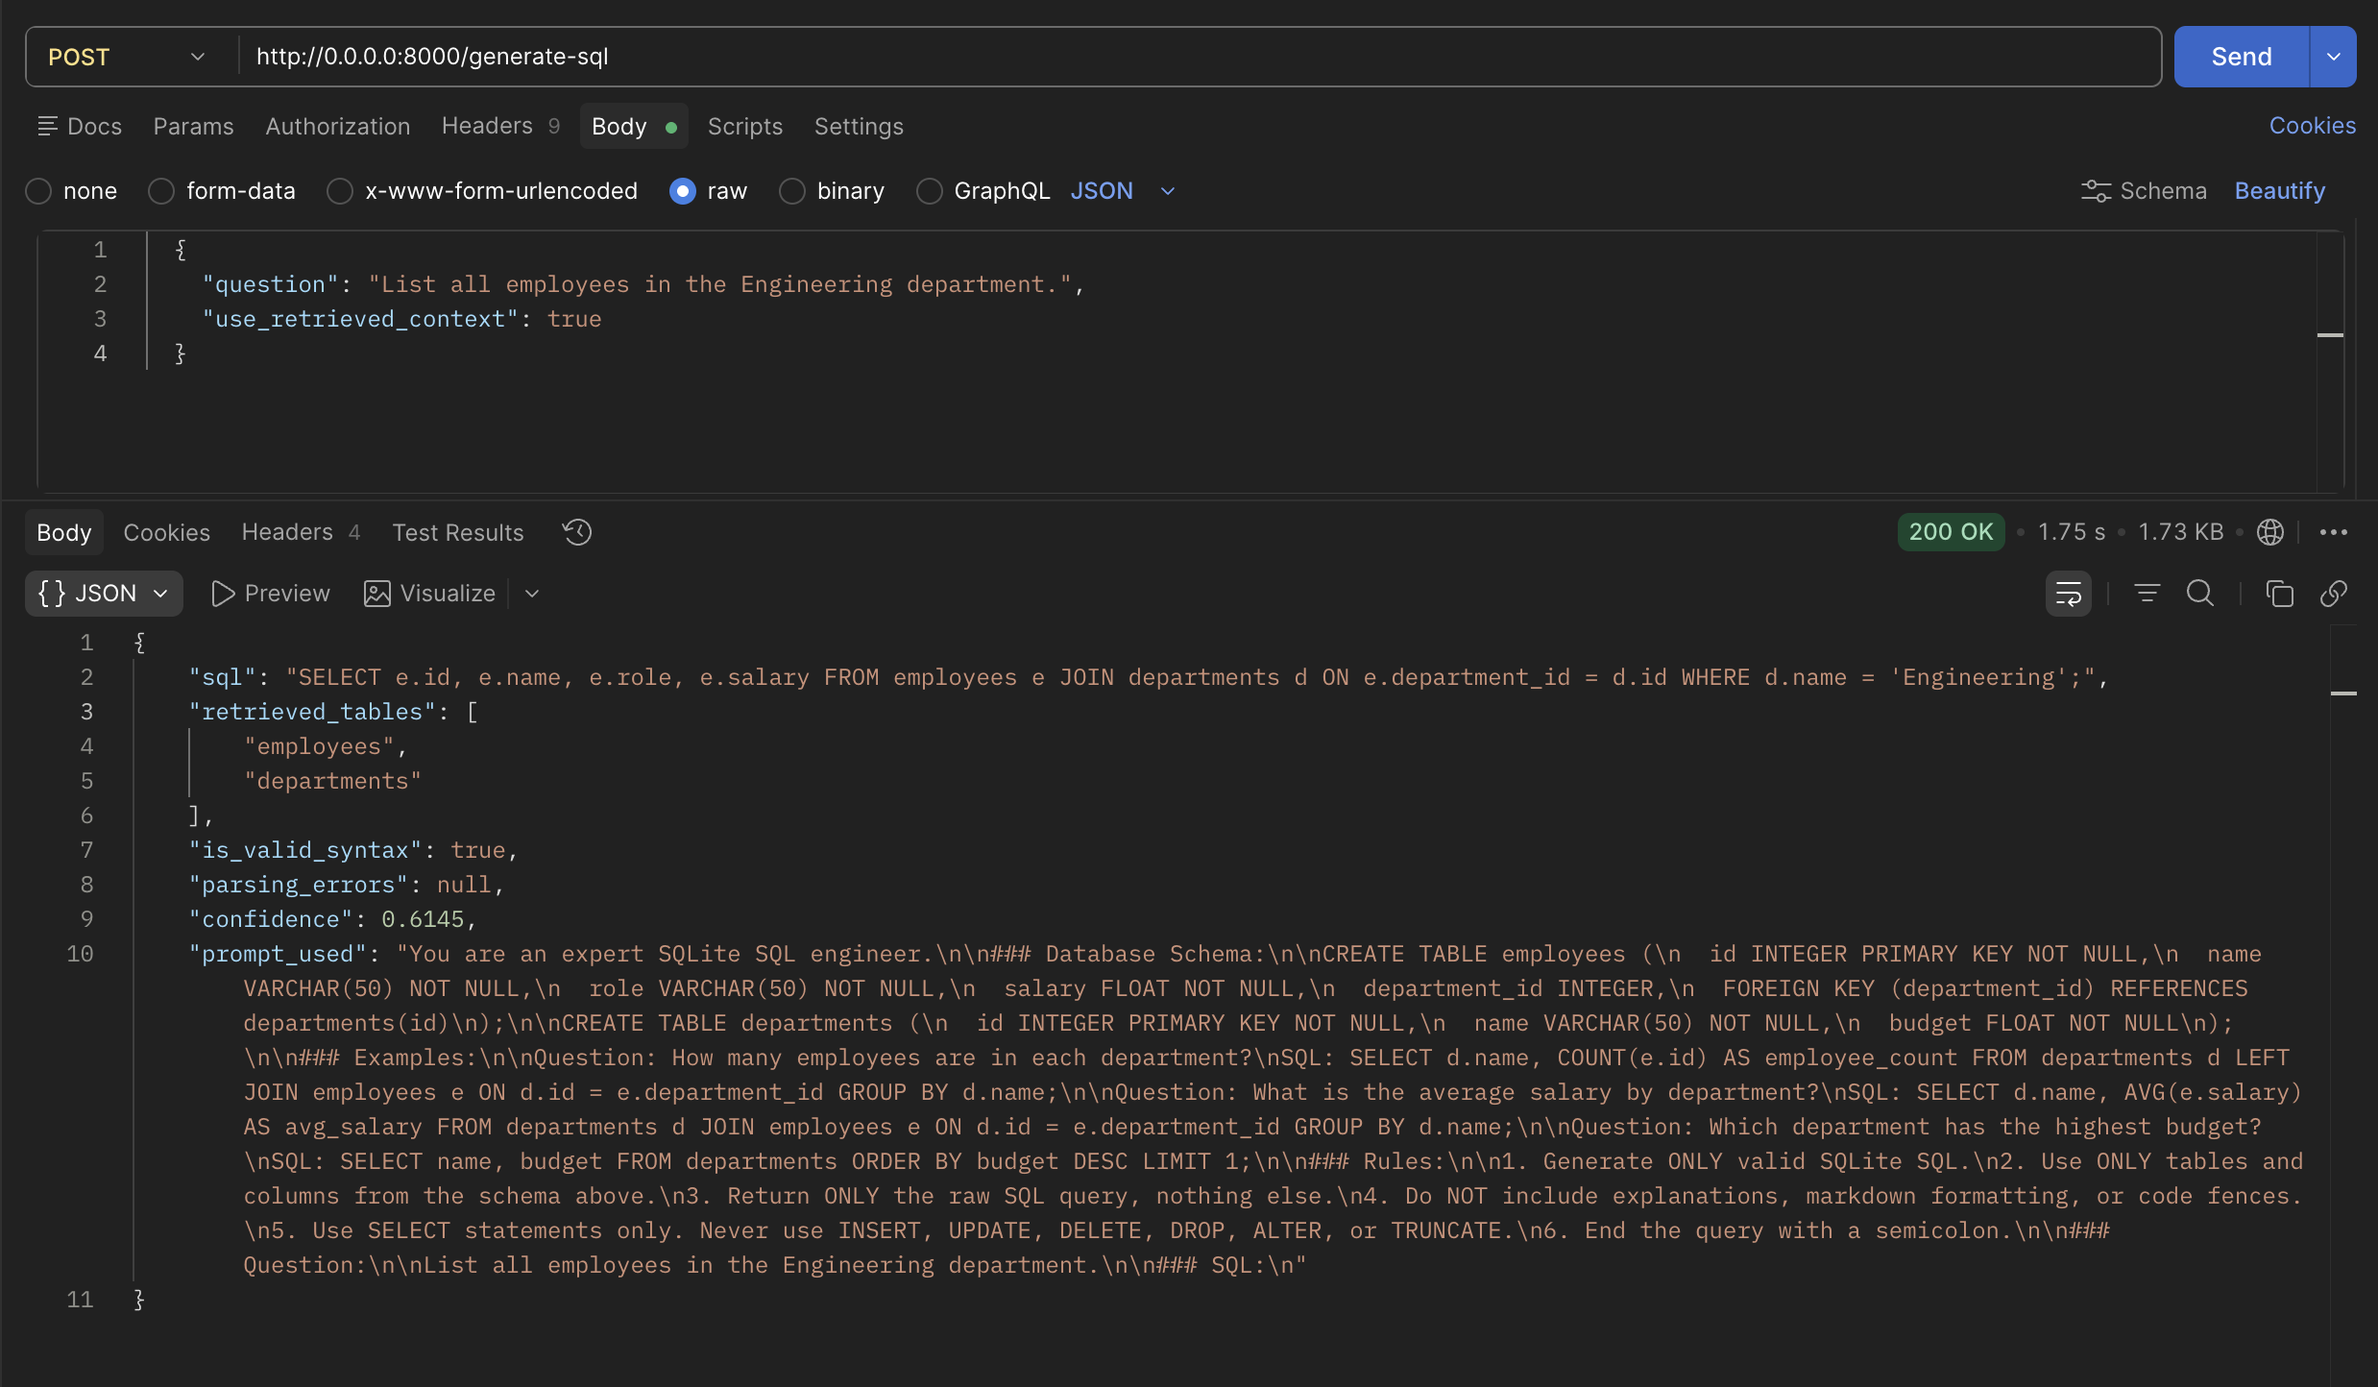
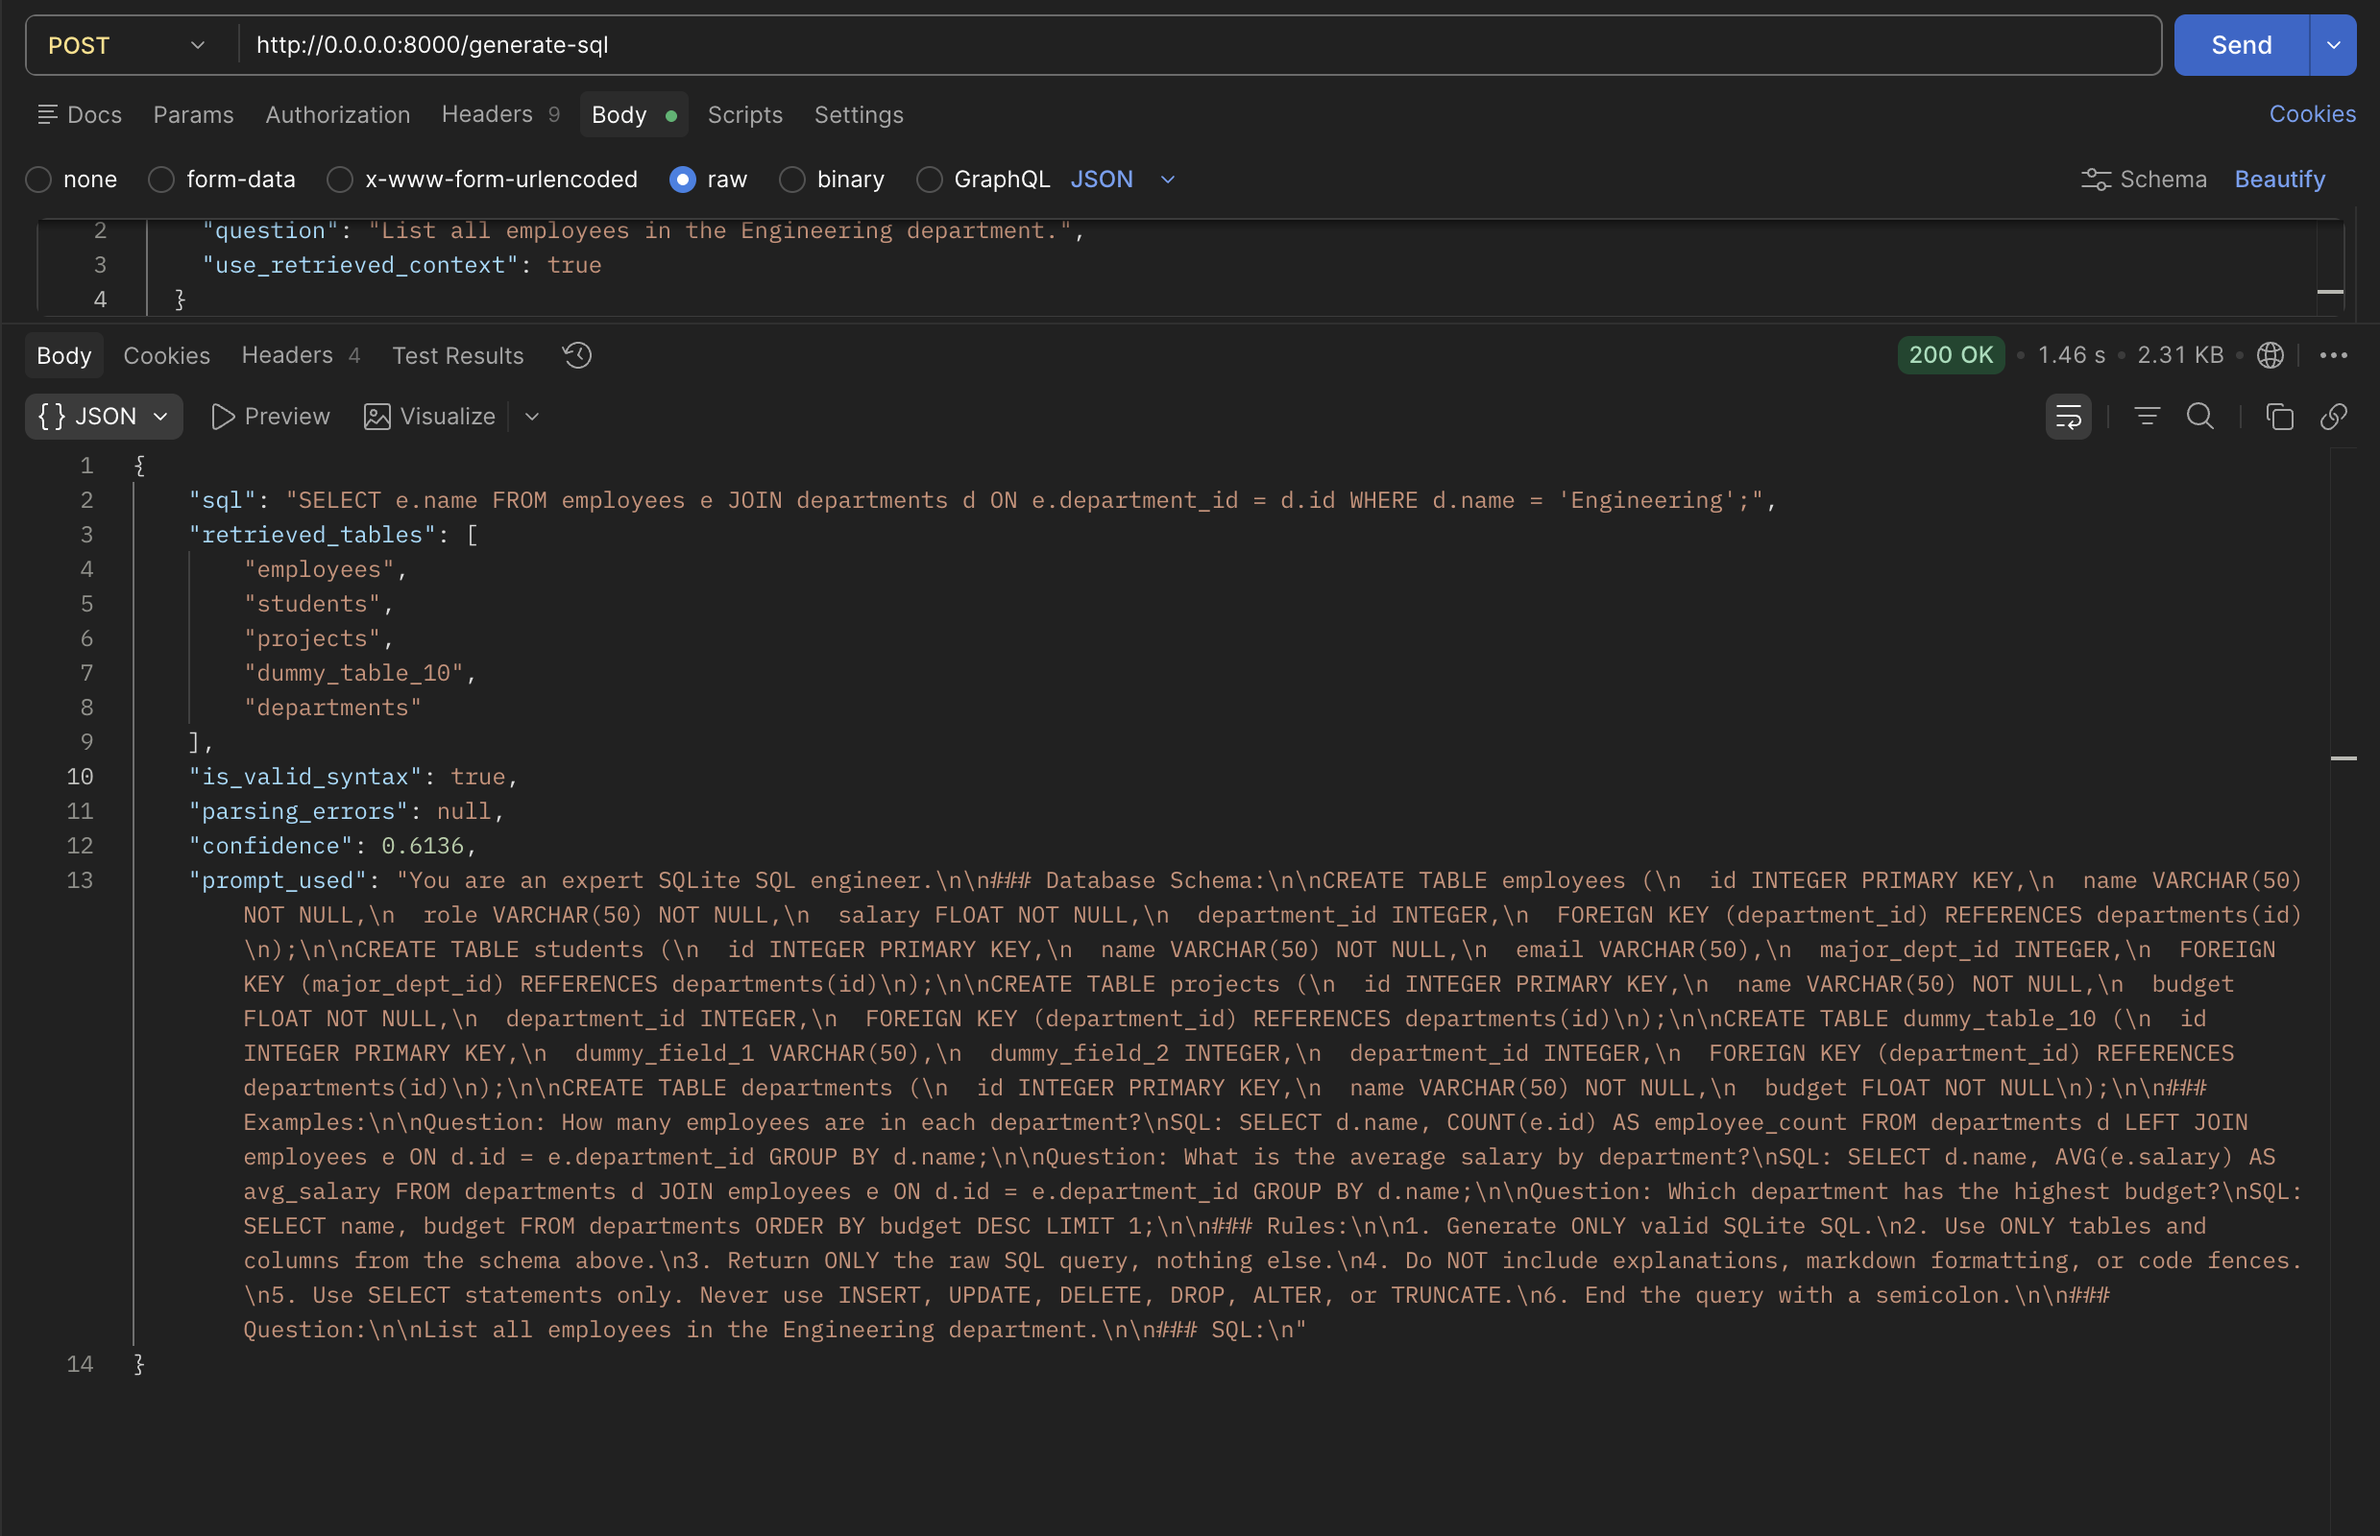
docs: rename and update new screenshots, align json responses in readme and postman guides

diff --git a/README.md b/README.md
@@ -92,16 +92,36 @@ Retrieve the most relevant table schemas for a natural language question.
 
 ```json
 {
-  "retrieved_tables": ["departments", "enrollments"],
-  "scores": [0.92, 0.87],
-  "confidence": 0.90,
+  "retrieved_tables": [
+    "students",
+    "departments",
+    "courses",
+    "enrollments",
+    "dummy_table_15"
+  ],
+  "scores": [
+    0.6272,
+    0.609,
+    0.5697,
+    0.568,
+    0.5671
+  ],
+  "confidence": 0.6272,
   "details": {
+    "students": {
+      "relevance_score": 0.6272,
+      "reason": "Contains student profile information"
+    },
     "departments": {
-      "relevance_score": 0.92,
+      "relevance_score": 0.609,
       "reason": "Question asks about departments directly"
     },
+    "courses": {
+      "relevance_score": 0.5697,
+      "reason": "Contains course attributes and metadata"
+    },
     "enrollments": {
-      "relevance_score": 0.87,
+      "relevance_score": 0.568,
       "reason": "Needed to count students per department"
     }
   }
@@ -120,7 +140,7 @@ Generate a SQL query from a natural language question using RAG context.
 
 ```json
 {
-  "question": "Which departments have more than 100 students?",
+  "question": "List all employees in the Engineering department.",
   "use_retrieved_context": true
 }
 ```
@@ -129,12 +149,18 @@ Generate a SQL query from a natural language question using RAG context.
 
 ```json
 {
-  "sql": "SELECT d.dept_name, COUNT(e.student_id) as total_students FROM departments d JOIN enrollments e ON d.dept_id = e.dept_id GROUP BY d.dept_name HAVING COUNT(e.student_id) > 100",
-  "retrieved_tables": ["departments", "enrollments"],
+  "sql": "SELECT e.name FROM employees e JOIN departments d ON e.department_id = d.id WHERE d.name = 'Engineering';",
+  "retrieved_tables": [
+    "employees",
+    "students",
+    "projects",
+    "dummy_table_10",
+    "departments"
+  ],
   "is_valid_syntax": true,
   "parsing_errors": null,
-  "confidence": 0.85,
-  "prompt_used": "...full prompt sent to LLM..."
+  "confidence": 0.6136,
+  "prompt_used": "You are an expert SQLite SQL engineer...\n..."
 }
 ```
 
@@ -152,24 +178,24 @@ Run the built-in benchmark suite and return accuracy metrics.
 {
   "total_queries": 25,
   "metrics": {
-    "retrieval_recall_at_5": 0.88,
-    "retrieval_recall_at_10": 0.92,
-    "sql_exact_match_accuracy": 0.52,
+    "retrieval_recall_at_5": 0.91,
+    "retrieval_recall_at_10": 0.91,
+    "sql_exact_match_accuracy": 0.36,
     "sql_execution_match_accuracy": 0.68,
-    "parsing_success_rate": 0.96,
-    "average_latency_ms": 850
+    "parsing_success_rate": 1.0,
+    "average_latency_ms": 586.53
   },
   "subtask_breakdown": {
-    "multi_table_retrieval": 0.88,
-    "column_mapping": 0.72,
-    "join_detection": 0.65,
-    "domain_knowledge": 0.58
+    "column_mapping": 0.9,
+    "multi_table_retrieval": 0.5,
+    "join_detection": 0.5,
+    "domain_knowledge": 0.5
   },
   "error_analysis": {
-    "retrieval_failures": 3,
-    "parsing_failures": 1,
-    "execution_failures": 8,
-    "logic_errors": 6
+    "retrieval_failures": 0,
+    "parsing_failures": 0,
+    "execution_failures": 0,
+    "logic_errors": 8
   }
 }
 ```

diff --git a/POSTMAN.md b/POSTMAN.md
@@ -55,21 +55,35 @@ Retrieves relevant table DDL schemas, similarity scores, aggregate confidence, a
   ```json
   {
     "retrieved_tables": [
+      "students",
       "departments",
-      "enrollments"
+      "courses",
+      "enrollments",
+      "dummy_table_15"
     ],
     "scores": [
-      0.92,
-      0.87
+      0.6272,
+      0.609,
+      0.5697,
+      0.568,
+      0.5671
     ],
-    "confidence": 0.90,
+    "confidence": 0.6272,
     "details": {
+      "students": {
+        "relevance_score": 0.6272,
+        "reason": "Contains student profile information"
+      },
       "departments": {
-        "relevance_score": 0.92,
+        "relevance_score": 0.609,
         "reason": "Question asks about departments directly"
       },
+      "courses": {
+        "relevance_score": 0.5697,
+        "reason": "Contains course attributes and metadata"
+      },
       "enrollments": {
-        "relevance_score": 0.87,
+        "relevance_score": 0.568,
         "reason": "Needed to count students per department"
       }
     }
@@ -98,12 +112,15 @@ Translates a natural language question into SQLite SQL using RAG schema context 
     "sql": "SELECT e.name FROM employees e JOIN departments d ON e.department_id = d.id WHERE d.name = 'Engineering';",
     "retrieved_tables": [
       "employees",
+      "students",
+      "projects",
+      "dummy_table_10",
       "departments"
     ],
     "is_valid_syntax": true,
     "parsing_errors": null,
-    "confidence": 0.6421,
-    "prompt_used": "..."
+    "confidence": 0.6136,
+    "prompt_used": "You are an expert SQLite SQL engineer...\n..."
   }
   ```
 
@@ -121,24 +138,24 @@ Evaluates the Text-to-SQL generation accuracy against a built-in benchmark datas
   {
     "total_queries": 25,
     "metrics": {
-      "retrieval_recall_at_5": 0.88,
-      "retrieval_recall_at_10": 0.92,
-      "sql_exact_match_accuracy": 0.52,
+      "retrieval_recall_at_5": 0.91,
+      "retrieval_recall_at_10": 0.91,
+      "sql_exact_match_accuracy": 0.36,
       "sql_execution_match_accuracy": 0.68,
-      "parsing_success_rate": 0.96,
-      "average_latency_ms": 850
+      "parsing_success_rate": 1.0,
+      "average_latency_ms": 586.53
     },
     "subtask_breakdown": {
-      "multi_table_retrieval": 0.88,
-      "column_mapping": 0.72,
-      "join_detection": 0.65,
-      "domain_knowledge": 0.58
+      "column_mapping": 0.9,
+      "multi_table_retrieval": 0.5,
+      "join_detection": 0.5,
+      "domain_knowledge": 0.5
     },
     "error_analysis": {
-      "retrieval_failures": 3,
-      "parsing_failures": 1,
-      "execution_failures": 8,
-      "logic_errors": 6
+      "retrieval_failures": 0,
+      "parsing_failures": 0,
+      "execution_failures": 0,
+      "logic_errors": 8
     }
   }
   ```
